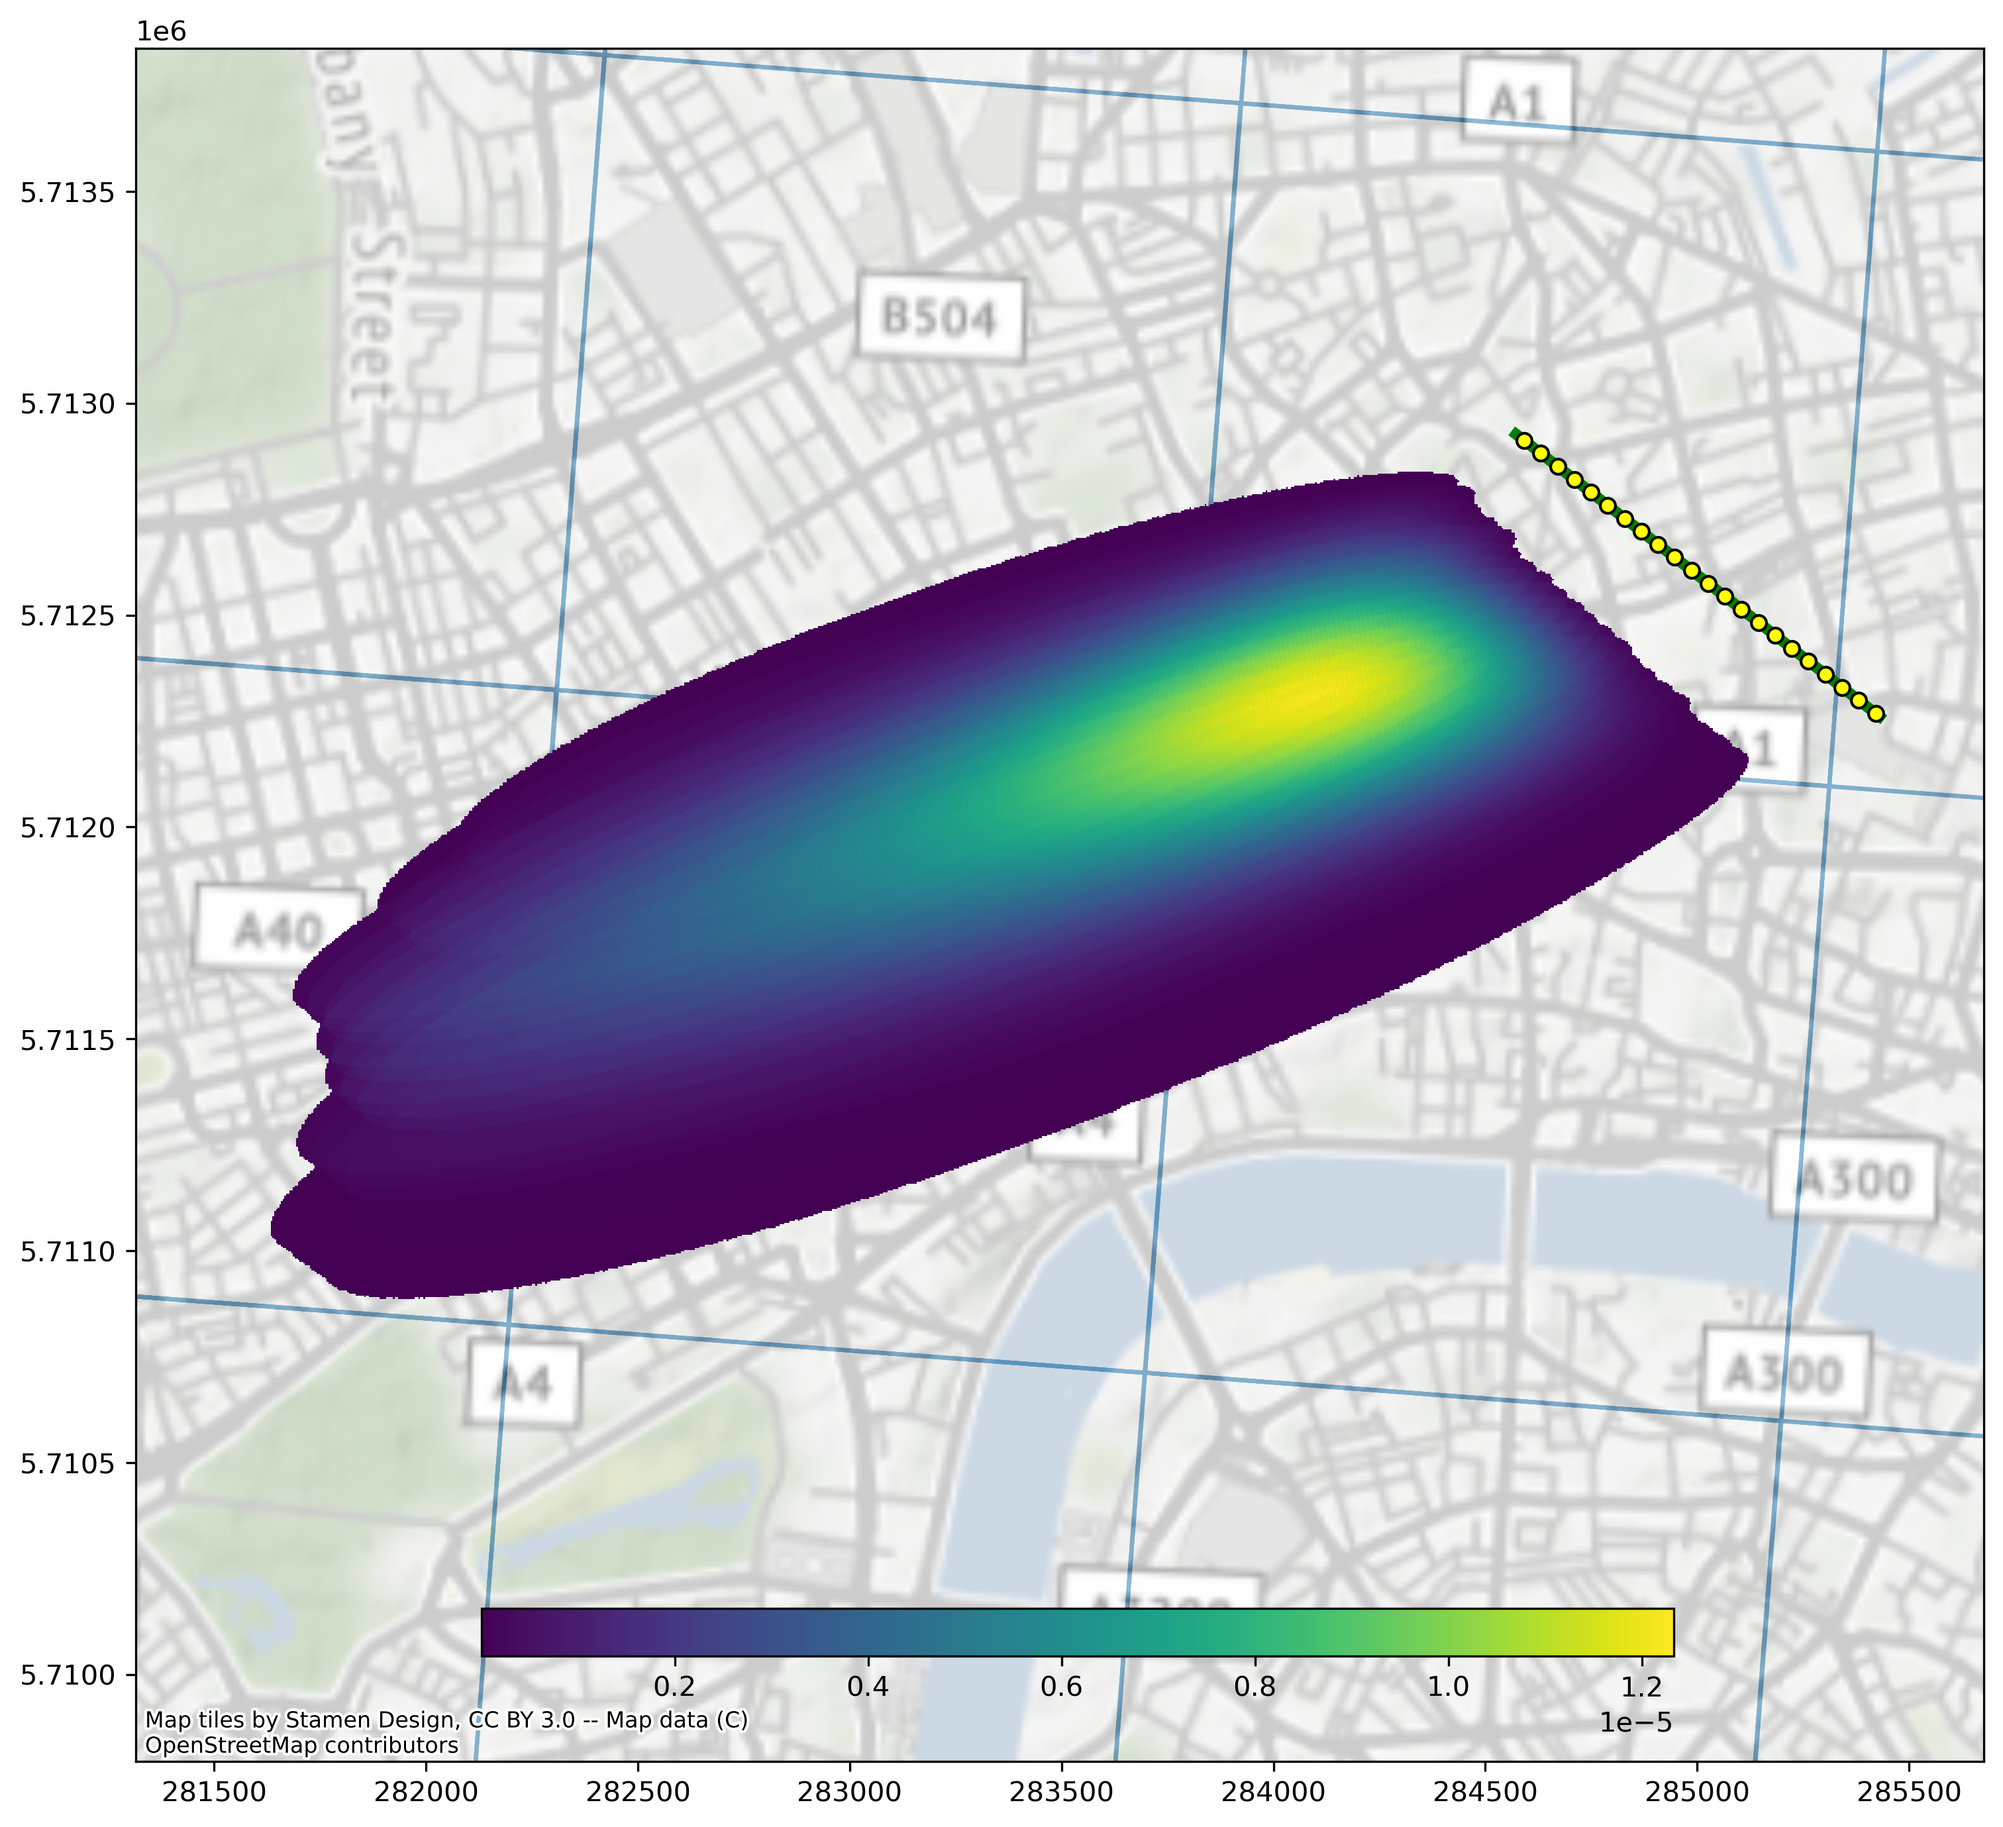
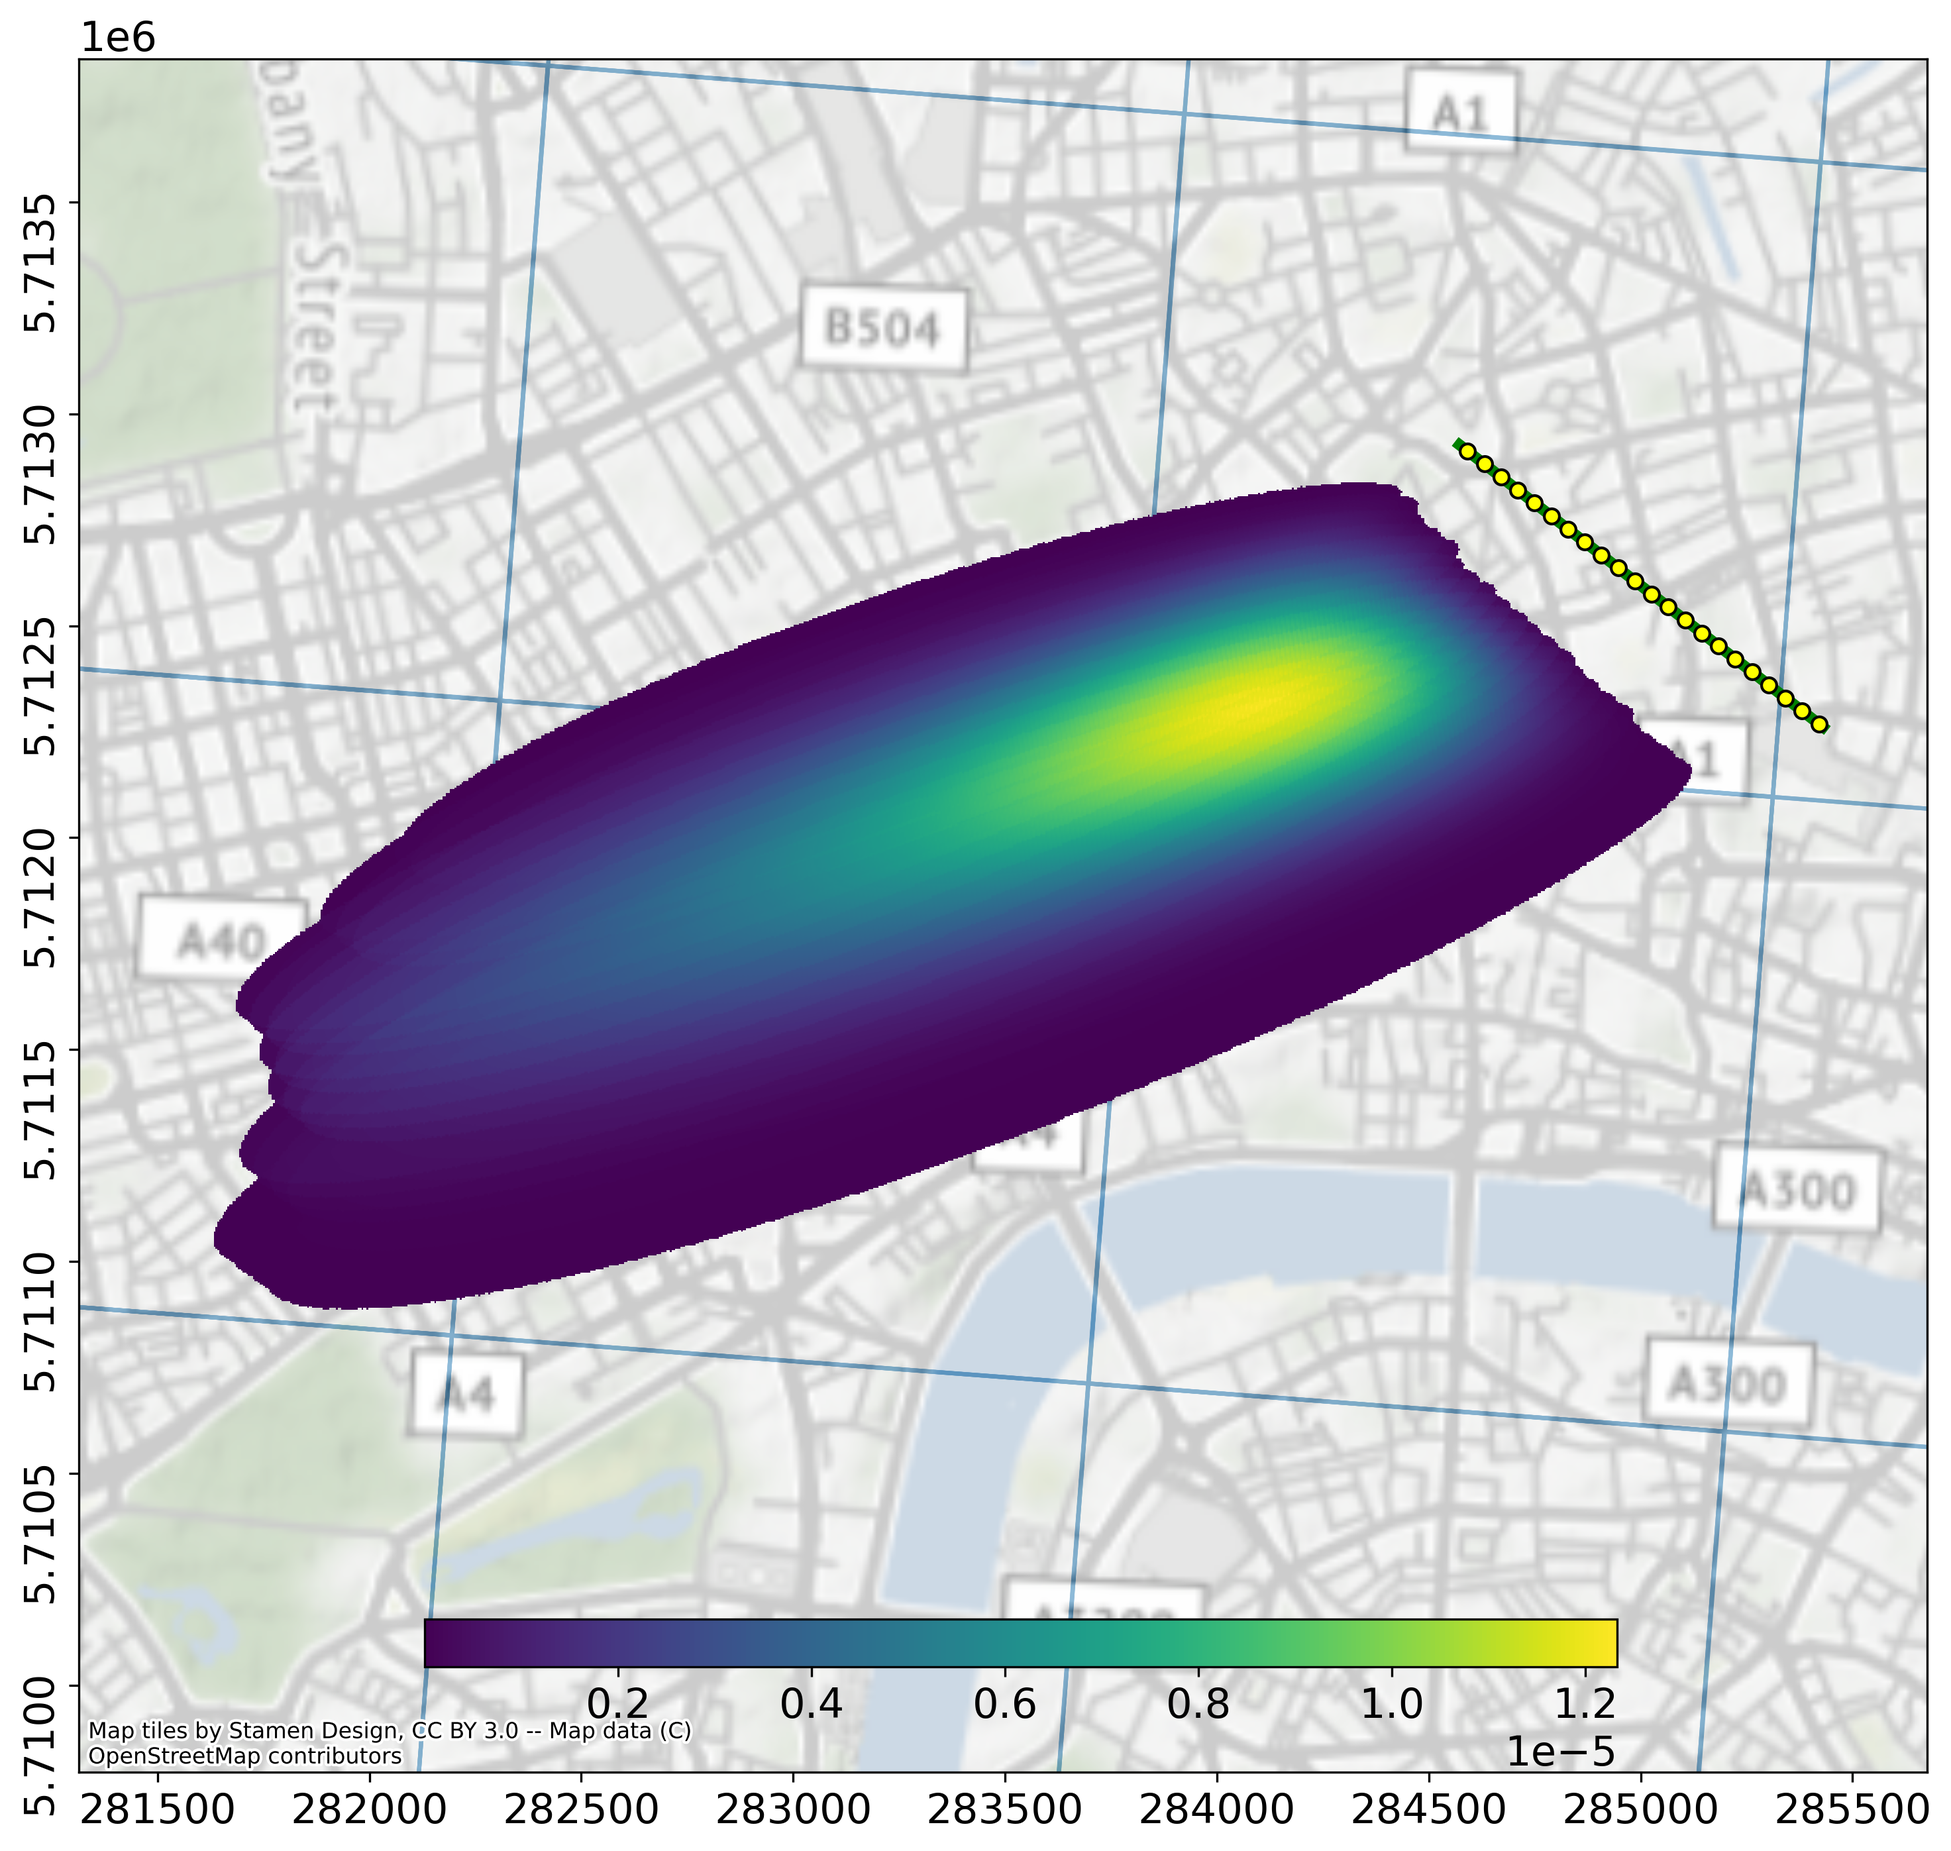
text size. Rotated y ticks

Changed region(s): [[0.0, 0.0, 0.9997, 0.9978], [0.4998, 0.343, 0.656, 0.4365]]

diff --git a/scint_plots/sa_demonstration/sa_demonstration_funs.py b/scint_plots/sa_demonstration/sa_demonstration_funs.py
@@ -7,6 +7,8 @@ import os
 import geopandas as gpd
 import matplotlib as mpl
 
+mpl.rcParams.update({'font.size': 15})
+
 
 def run_panel_figs(panel_number, save_path):
     """
@@ -102,6 +104,8 @@ def init_map(file_list, panel_number):
     # sex ax lims
     ax.set_xlim(281314.7269919119, 285676.31545750913)
     ax.set_ylim(5709795.207536185, 5713837.796845389)
+
+    plt.yticks(rotation=90)
 
     if panel_number == 2:
         image_hidden = ax.imshow(raster0.read(1))
